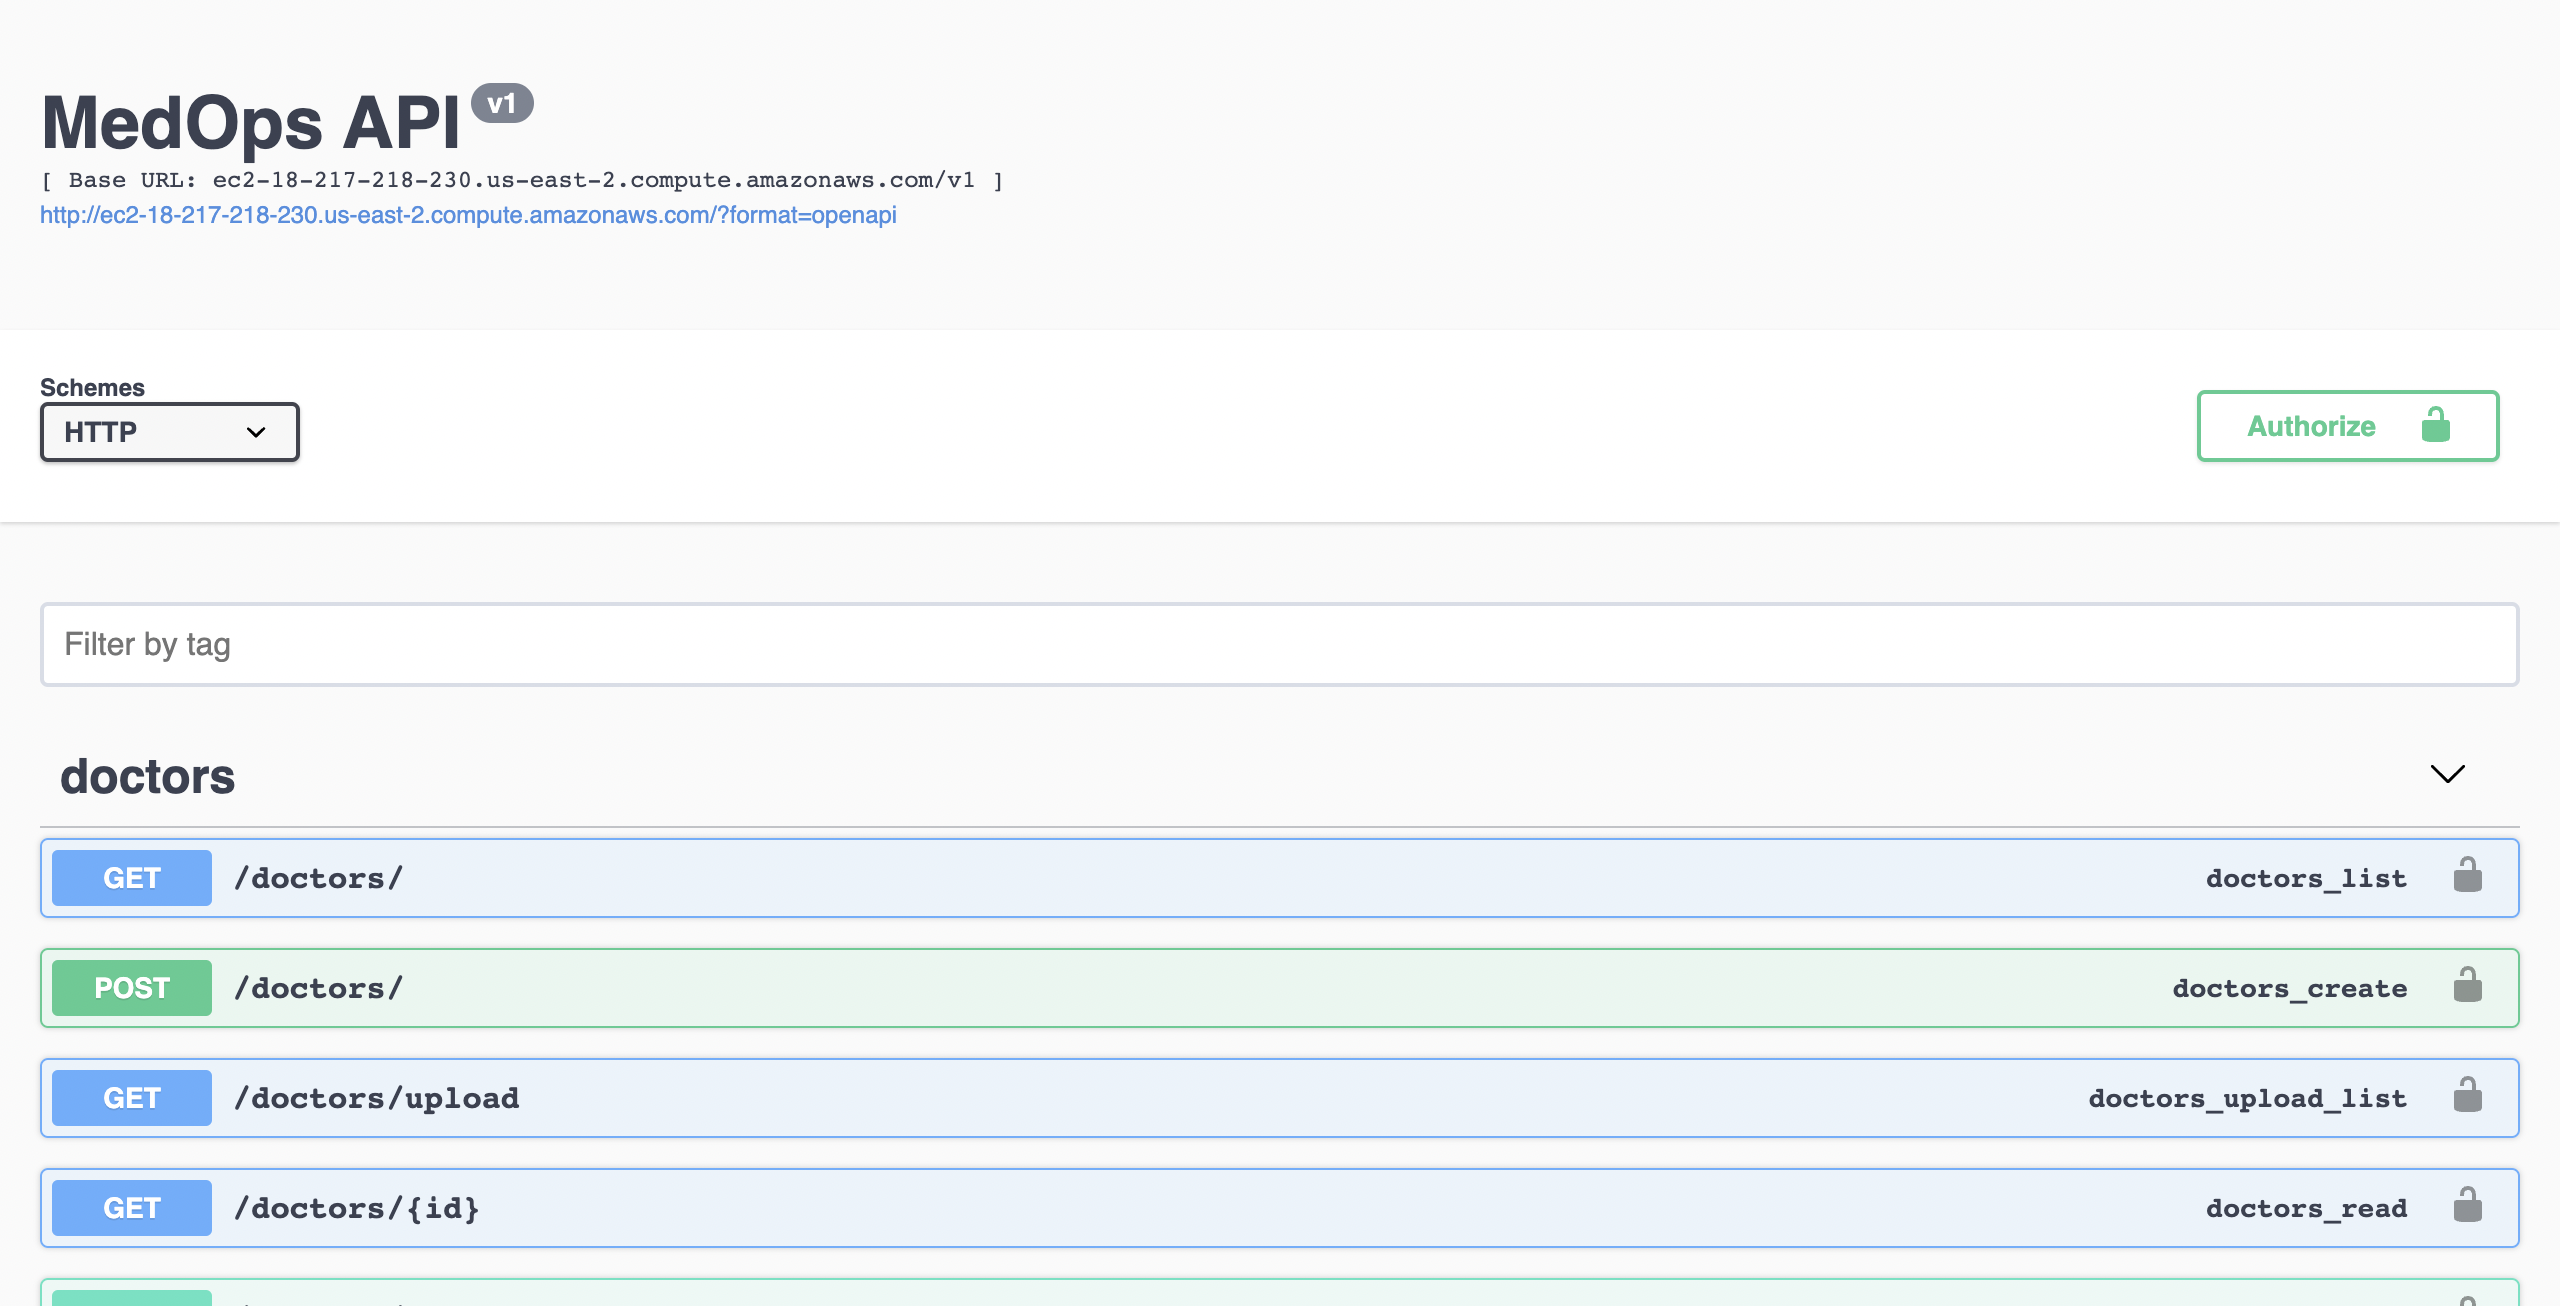
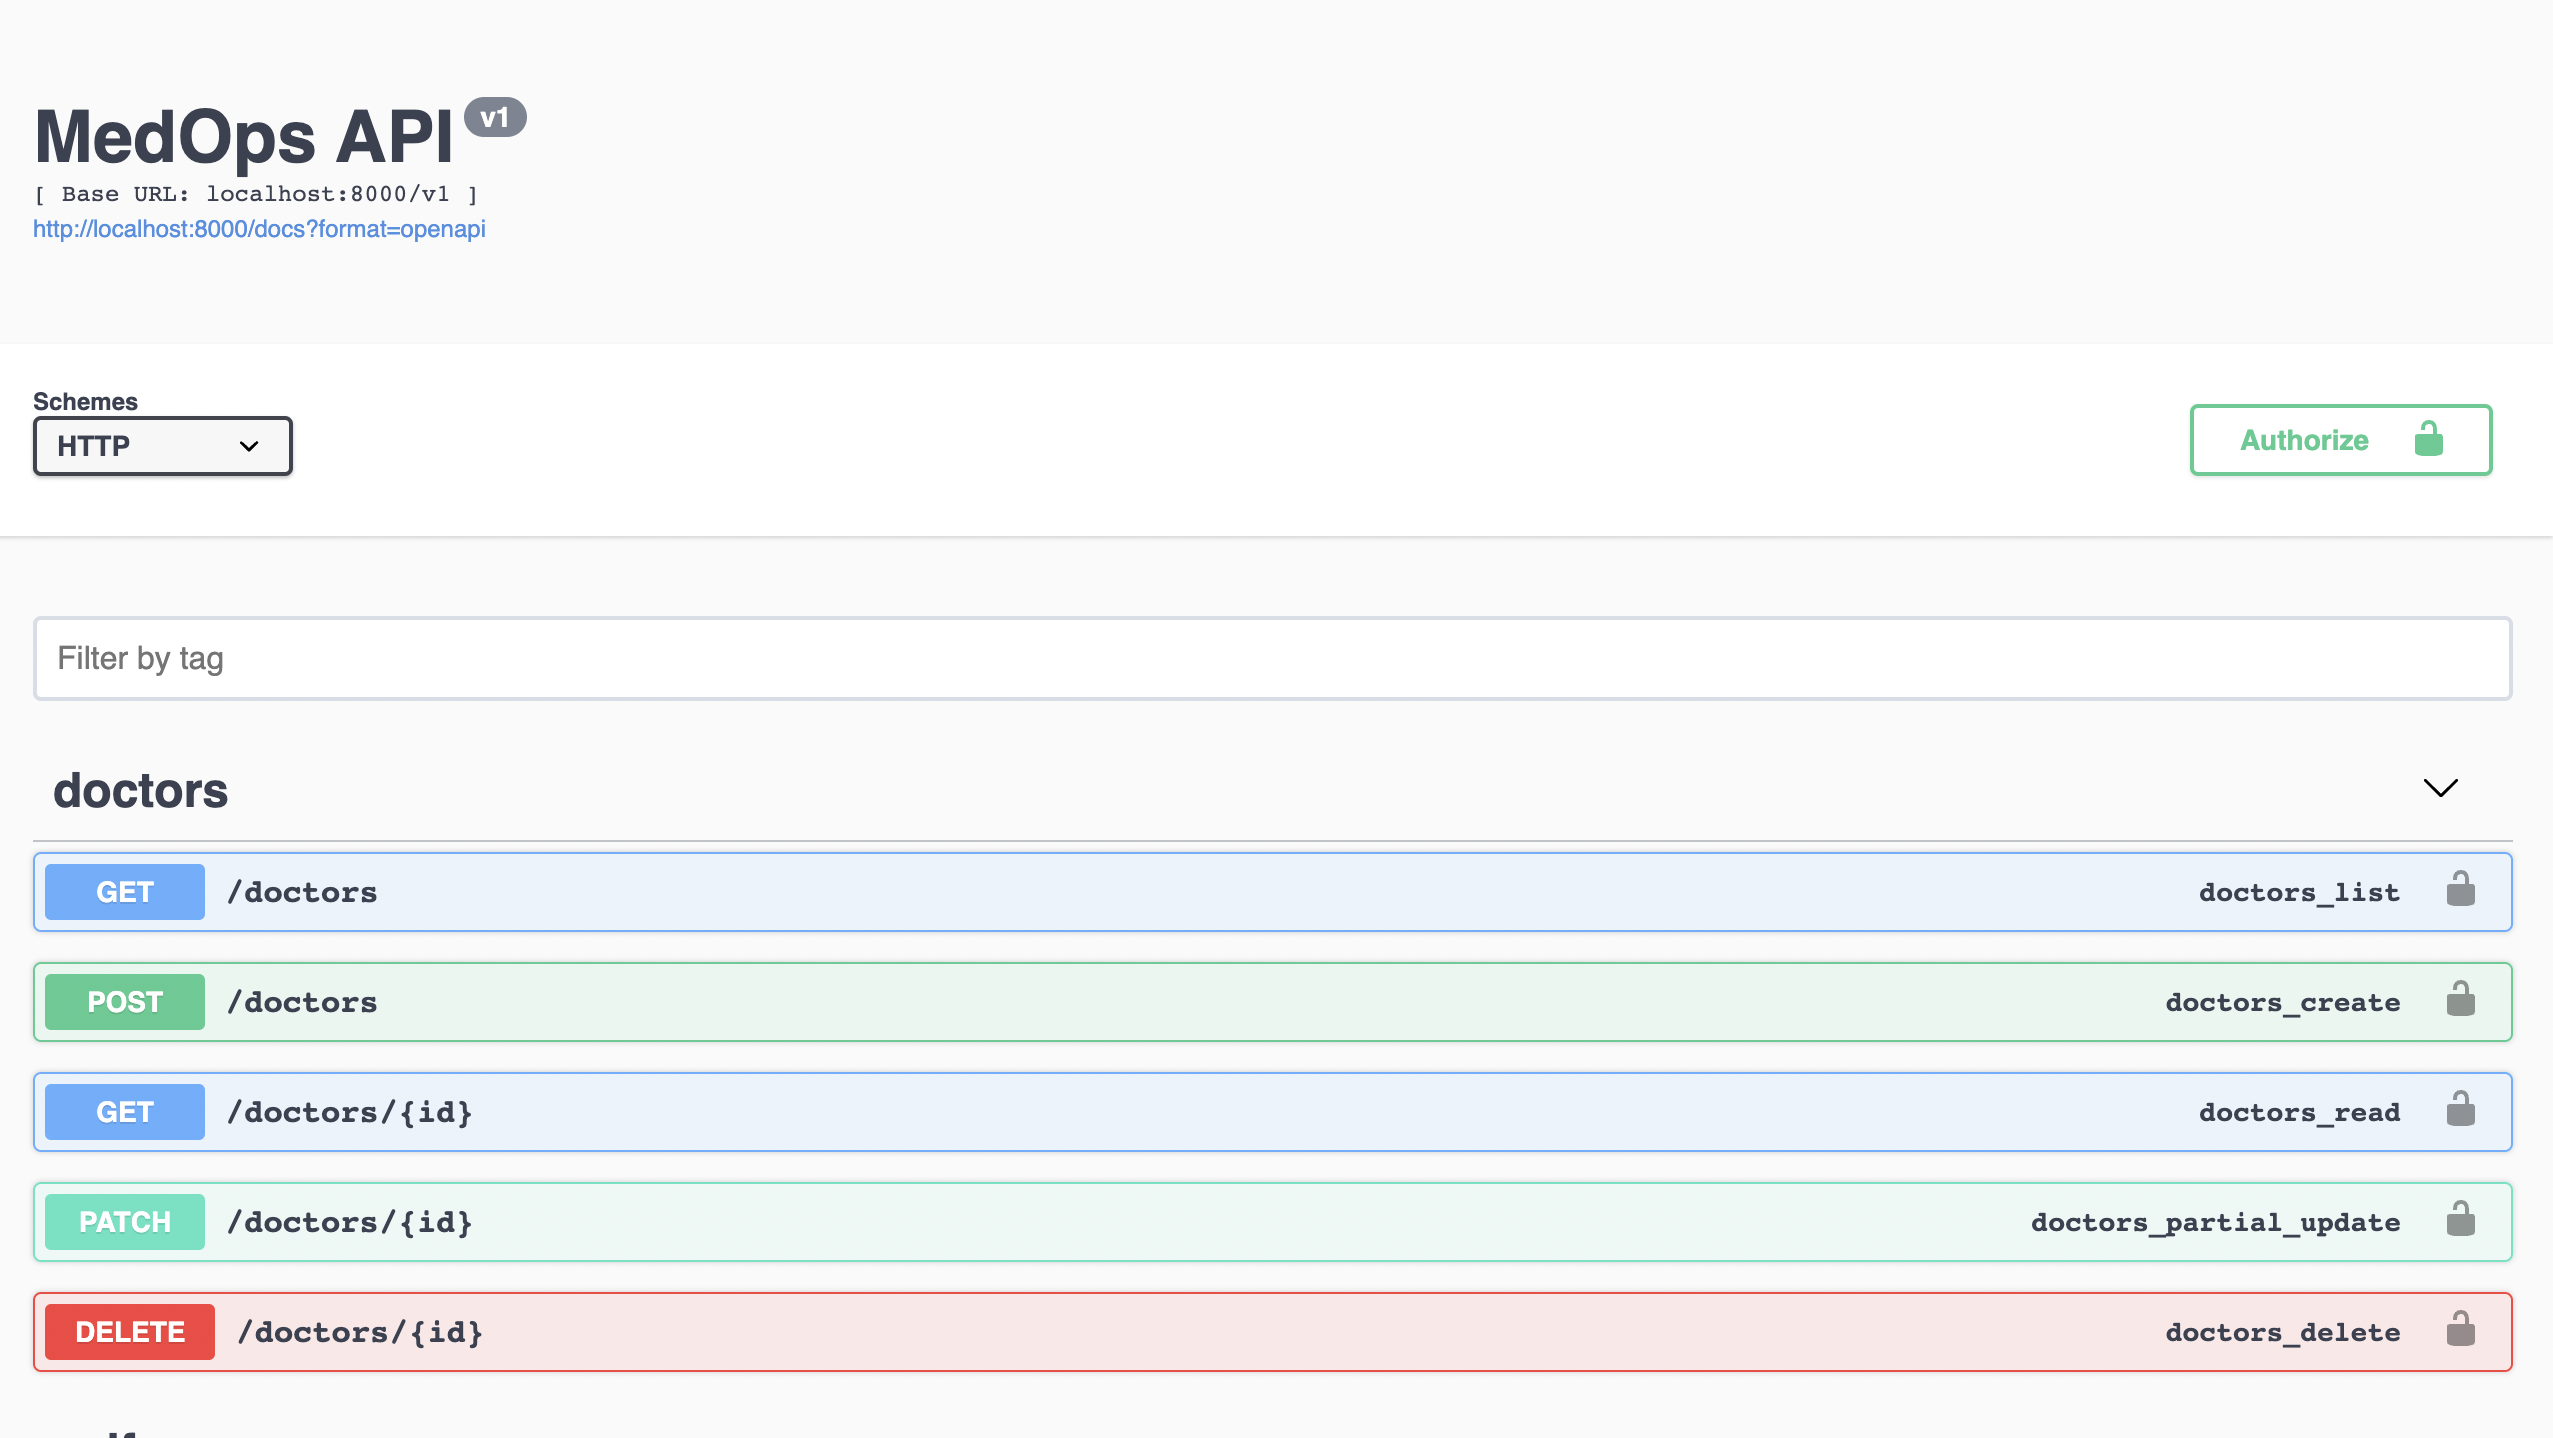
chore: add tests for selfcare

diff --git a/src/apps/selfcare/tests/test_diagnosis_view.py b/src/apps/selfcare/tests/test_diagnosis_view.py
@@ -1,0 +1,83 @@
+import pytest
+from rest_framework.test import APIClient
+
+from apps.doctors.tests.test_doctor_view import get_completed_user_profile, get_user
+
+client = APIClient()
+
+
+@pytest.mark.django_db
+def get_symptoms():
+    user = get_user()
+    client.force_authenticate(user=user)
+    response = client.get("/v1/selfcare/symptoms")
+    response_data = response.data.get("data")
+
+    return response_data[0].get("id"), response_data[1].get("id")
+
+
+@pytest.mark.django_db
+def test_get_diagnosis_failure_no_auth():
+    """
+    GIVEN that the app is running
+    WHEN POST /v1/selfcare/diagnosis is called by an unauthenticated user
+    THEN a 401 status is returned
+    """
+    symptoms = get_symptoms()
+    payload = {"symptom_ids": [symptoms[0], symptoms[1]]}
+    client.force_authenticate(user=None)
+    response = client.post("/v1/selfcare/diagnosis", payload)
+    response_data = response.data
+
+    assert response.status_code == 401
+    assert response_data.get("success") is False
+    assert (
+        response_data.get("message") == "Authentication credentials were not provided."
+    )
+    assert response_data.get("data") is None
+
+
+@pytest.mark.django_db
+def test_get_diagnosis_failure_validation_error():
+    """
+    GIVEN that the app is running
+    WHEN POST /v1/selfcare/diagnosis is called with invalid payload
+    THEN a 400 status code is returned and validation error is returned
+    """
+    user = get_completed_user_profile()
+    client.force_authenticate(user=user)
+    payload = {"symptom_ids": "invalid"}
+    response = client.post("/v1/selfcare/diagnosis", payload)
+    response_data = response.data
+
+    response2 = client.post("/v1/selfcare/diagnosis", {})
+    response_data2 = response2.data
+
+    assert response.status_code == 400
+    assert response_data.get("success") is False
+    assert response_data.get("message") == "Validation error"
+    assert response_data.get("data") is None
+    assert response2.status_code == 400
+    assert response_data2.get("success") is False
+    assert response_data2.get("message") == "Validation error"
+    assert response_data2.get("data") is None
+
+
+@pytest.mark.django_db
+def test_get_diagnosis_failure_incomplete_profile():
+    """
+    GIVEN that the app is running
+    WHEN POST /v1/selfcare/diagnosis is called by a user with incomplete profile
+    THEN a 400 status code is returned
+    """
+    user = get_user()
+    client.force_authenticate(user=user)
+    symptoms = get_symptoms()
+    payload = {"symptom_ids": [symptoms[0], symptoms[1]]}
+    response = client.post("/v1/selfcare/diagnosis", payload)
+    response_data = response.data
+
+    assert response.status_code == 400
+    assert response_data.get("success") is False
+    assert response_data.get("message") == "Incomplete profile"
+    assert response_data.get("data") is None

diff --git a/src/apps/selfcare/views/diagnosis.py b/src/apps/selfcare/views/diagnosis.py
@@ -26,9 +26,10 @@ class DiagnosisView(generics.GenericAPIView):
 
         if not user.profile.is_complete():
             return Response(
-                status=False,
-                message="Update your account with your age and gender before requesting diagnosis",
+                success=False,
+                message="Incomplete profile",
                 status_code=400,
+                data=None,
             )
 
         serializer = self.get_serializer(data=request.data)
@@ -36,10 +37,9 @@ class DiagnosisView(generics.GenericAPIView):
             return Response(
                 status_code=400,
                 success=False,
-                message="Invalid data",
                 errors=serializer.errors,
             )
-        symptoms = serializer.validated_data["symptoms"]
+        symptoms = serializer.validated_data["symptom_ids"]
         yob = user.profile.year_of_birth()
         gender = "male" if user.profile.gender == "M" else "female"
 
@@ -52,9 +52,13 @@ class DiagnosisView(generics.GenericAPIView):
             spec["Name"] for obj in serializer.data for spec in obj["Specialisation"]
         ]
 
+        for obj in serializer.data:
+            obj.pop("Specialisation")
+
         doctors = Doctor.objects.filter(specialty__in=specialty)
         doctors_serializer = self.doctors_serializer(doctors)
         response_data = {"result": serializer.data, "doctors": doctors_serializer.data}
+
         return Response(
             success=True,
             message="Diagnosis results",

diff --git a/src/apps/selfcare/tests/test_symptoms_view.py b/src/apps/selfcare/tests/test_symptoms_view.py
@@ -1,0 +1,44 @@
+import pytest
+from rest_framework.test import APIClient
+
+from apps.doctors.tests.test_doctor_view import get_user
+
+
+@pytest.mark.django_db
+def test_list_symptoms():
+    """
+    Given that the app is running
+    WHEN GET /v1/symptoms is called by an authenticated user
+    THEN the symptoms are retrieved, and a 200 status is returned
+    """
+    user = get_user()
+    client = APIClient()
+    client.force_authenticate(user=user)
+    response = client.get("/v1/selfcare/symptoms")
+    response_data = response.data
+
+    assert response.status_code == 200
+    assert response_data["success"] is True
+    assert response_data["message"] == "Symptoms retrieved"
+    assert len(response_data["data"]) > 0
+    assert isinstance(response_data["data"], list)
+    assert isinstance(response_data["data"][0], dict)
+    assert response_data["data"][0].keys() == {"id", "name"}
+
+
+@pytest.mark.django_db
+def test_list_symptoms_failure_not_authenticated():
+    """
+    Given that the app is running
+    WHEN GET /v1/symptoms is called by an unauthenticated user
+    THEN a 401 status is returned
+    """
+    client = APIClient()
+    client.force_authenticate(user=None)
+    response = client.get("/v1/selfcare/symptoms")
+    response_data = response.data
+
+    assert response.status_code == 401
+    assert response_data["message"] == "Authentication credentials were not provided."
+    assert response_data["success"] is False
+    assert response_data["data"] is None

diff --git a/src/apps/doctors/tests/test_doctor_view.py b/src/apps/doctors/tests/test_doctor_view.py
@@ -1,8 +1,12 @@
+import random
+import string
+
 import pytest
 from django.contrib.auth import get_user_model
 from rest_framework.test import APIClient
 
 from apps.doctors.models import Doctor
+from apps.users.models import Profile
 
 client = APIClient()
 
@@ -31,15 +35,32 @@ def get_admin_user():
 
 
 @pytest.mark.django_db
-def get_user():
+def get_user(profile=None):
+    letters = string.ascii_lowercase
+    result_str = "".join(random.choice(letters) for i in range(8))
+
+    user_email = "{}@example.com".format(result_str)
     regular_user = get_user_model().objects.create_user(
-        email="user@example.com",
+        email=user_email,
         password="password",
         first_name="User",
         last_name="One",
         is_active=True,
     )
+    if profile:
+        regular_user.profile.age = 33
+        regular_user.profile.gender = "M"
+        regular_user.profile.save()
     return regular_user
+
+
+@pytest.mark.django_db
+def get_completed_user_profile():
+    user = get_user(profile=True)
+    # user.profile.age = 30
+    # user.profile.gender = "M"
+    # user.profile.save()
+    return user
 
 
 @pytest.mark.django_db

diff --git a/src/apps/selfcare/views/symptom.py b/src/apps/selfcare/views/symptom.py
@@ -23,6 +23,11 @@ class SymptomView(generics.GenericAPIView):
             cache_exp = days_to_seconds(2)
             self.cache.set("symptoms", symptoms, cache_exp)
 
+        for symptom in symptoms:
+            id = symptom.pop("ID")
+            name = symptom.pop("Name")
+            symptom.update({"id": id, "name": name})
+
         serializer = self.get_serializer(symptoms, many=True)
 
         return Response(

diff --git a/src/apps/selfcare/urls.py b/src/apps/selfcare/urls.py
@@ -4,6 +4,6 @@ from apps.selfcare.views.diagnosis import DiagnosisView
 from apps.selfcare.views.symptom import SymptomView
 
 urlpatterns = [
-    path("symptoms", SymptomView.as_view(), name="symptoms"),
-    path("diagnosis", DiagnosisView.as_view(), name="diagnosis"),
+    path("/symptoms", SymptomView.as_view(), name="symptoms"),
+    path("/diagnosis", DiagnosisView.as_view(), name="diagnosis"),
 ]

diff --git a/src/core/urls.py b/src/core/urls.py
@@ -24,6 +24,6 @@ urlpatterns = [
     ),
     path("admin/", admin.site.urls),
     path("v1/users/", include("apps.users.urls")),
-    path("v1/selfcare/", include("apps.selfcare.urls")),
+    path("v1/selfcare", include("apps.selfcare.urls")),
     path("v1/doctors", include("apps.doctors.urls")),
 ]

diff --git a/src/apps/selfcare/serializers/symptom.py b/src/apps/selfcare/serializers/symptom.py
@@ -2,5 +2,5 @@ from rest_framework import serializers
 
 
 class SymptomSerializer(serializers.Serializer):
-    ID = serializers.IntegerField()
-    Name = serializers.CharField()
+    id = serializers.IntegerField()
+    name = serializers.CharField()

diff --git a/README.md b/README.md
@@ -8,6 +8,7 @@ A test account has been created for testing purposes. The details are as follows
 
 - email: john@example.com
 - password: TestPassword
+- The API documentation is available on `http://localhost:8000/docs` on your browser.
 
 ![Screenshot](image.png?raw=true "MedOps API")
 
@@ -55,8 +56,6 @@ Make sure that all the above servers are running before you start exploring the 
 ### MedOps
 
 MedOps is a simple application that allows users to get diagnosis for their symptoms. It also recommends a list of doctors based on the diagnosis.
-
-The API documentation is available on `http://localhost:8000` on your browser.
 
 ### Key Features
 
